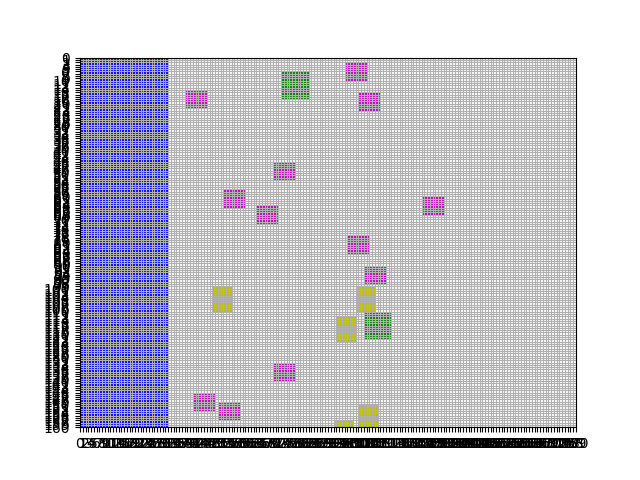
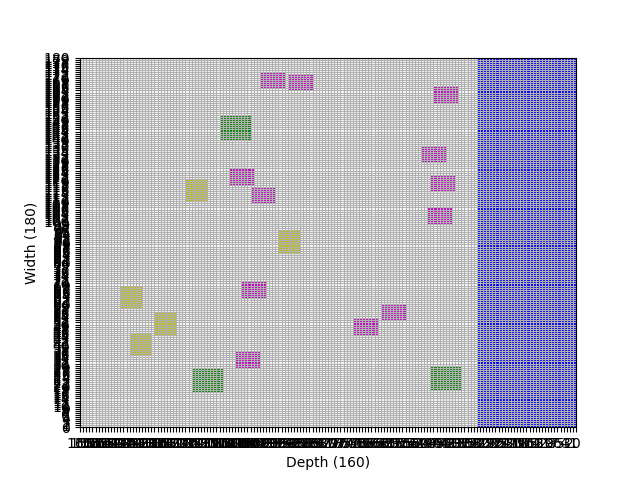
Adjusted optimalization function

diff --git a/code/visualization/visualize.py b/code/visualization/visualize.py
@@ -9,18 +9,29 @@ def visualize(grid):
     """
 
     # Create diagram representing a map of the Amstelhaege
-    plt.axis([0, grid.width, grid.depth, 0]) 
-    plt.xticks(np.arange(0, grid.width + 1, 1))
-    plt.yticks(np.arange(0, grid.depth + 1, 1)) 
-    # how start from bottom left corner from https://stackoverflow.com/questions/44395838/how-to-make-0-0-on-matplotlib-graph-on-the-bottom-left-corner
-    plt.xlim([0, grid.width])
-    plt.ylim([grid.depth, 0])
+    plt.axis([0, grid.depth, grid.width, 0]) 
+
+    # Add labels to axis
+    plt.ylabel("Width (180)")    
+    plt.xlabel("Depth (160)")
+
+    # Set scaling of the graph 
+    plt.xticks(np.arange(0, grid.depth + 1, 1))
+    plt.yticks(np.arange(0, grid.width + 1, 1)) 
+    
+    # Remove margin between where axis meet and scaling begins
+    # from https://stackoverflow.com/questions/44395838/how-to-make-0-0-on-matplotlib-graph-on-the-bottom-left-corner
+    plt.xlim([grid.depth, 0])
+    plt.ylim([0, grid.width])
+
+    # Make grid visible
     plt.grid(True)
 
     # Load water coordinates from correct map
     water = grid.load_water(grid.map)
     print(f" Water: {water}")
 
+    # Use coordinates to draw rectengualar representation of water
     for ident, coordinates in water.items():
         # how to loop through nested dict from https://www.learnbyexample.org/python-nested-dictionary/#:~:text=Access%20Nested%20Dictionary%20Items,key%20in%20multiple%20square%20brackets.&text=If%20you%20refer%20to%20a,dictionary%2C%20an%20exception%20is%20raised.&text=To%20avoid%20such%20exception%2C%20you,special%20dictionary%20get()%20method.
         # how to draw rectangle in diagram from https://www.codespeedy.com/how-to-draw-shapes-in-matplotlib-with-python/

diff --git a/code/classes/grid.py b/code/classes/grid.py
@@ -115,7 +115,7 @@ class Grid():
                     self.cells[y][x].type = "Water"
     
 
-    def calculate_worth(self, houses):
+    def calculate_worth(self):
         """
         Calculates worth of all House objects on grid. Returns the total net 
         worth.
@@ -124,10 +124,10 @@ class Grid():
         # Create variable to calculate total net worth
         total_net_worth = 0
 
-        for house in houses.values():
+        for house in self.all_houses.values():
+            print(house)
 
             if house.placed == True:
-
                 # Net worth of house
                 net_worth_house = house.price
             
@@ -136,8 +136,8 @@ class Grid():
                     net_worth_house += house.extra_free_meters * house.percentage * house.price
 
                 # Add net worth of house to total net worth
-                total_net_worth += net_worth_house
-                
+                total_net_worth = total_net_worth + net_worth_house
+    
         return total_net_worth
 
     def create_output(self):
@@ -167,5 +167,5 @@ class Grid():
                 writer.writerow(house_list)
             
             # Add optimalization function to csv file
-            optimalization = self.calculate_worth(self.all_houses)
+            optimalization = self.calculate_worth()
             writer.writerow(["networth", optimalization])

diff --git a/code/algorithms/randomize.py b/code/algorithms/randomize.py
@@ -79,6 +79,7 @@ def random_assignment(grid):
 				house.coordinates = house_info[1]
 				print(f"House coordinates: {house.coordinates}")
 				succes = True
+				house.placed = True
 
 				print(f"Updated grid:")
 				second_grid.print_grid()
